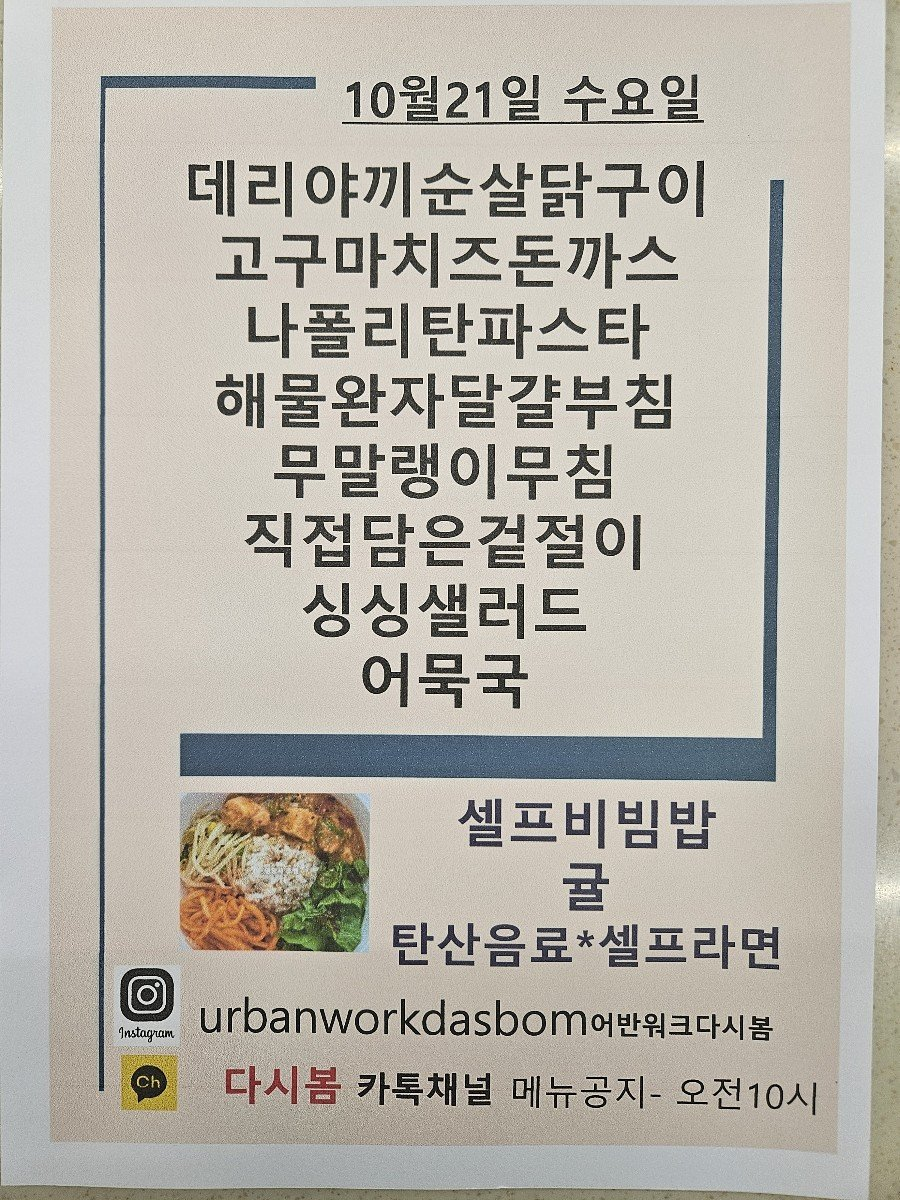
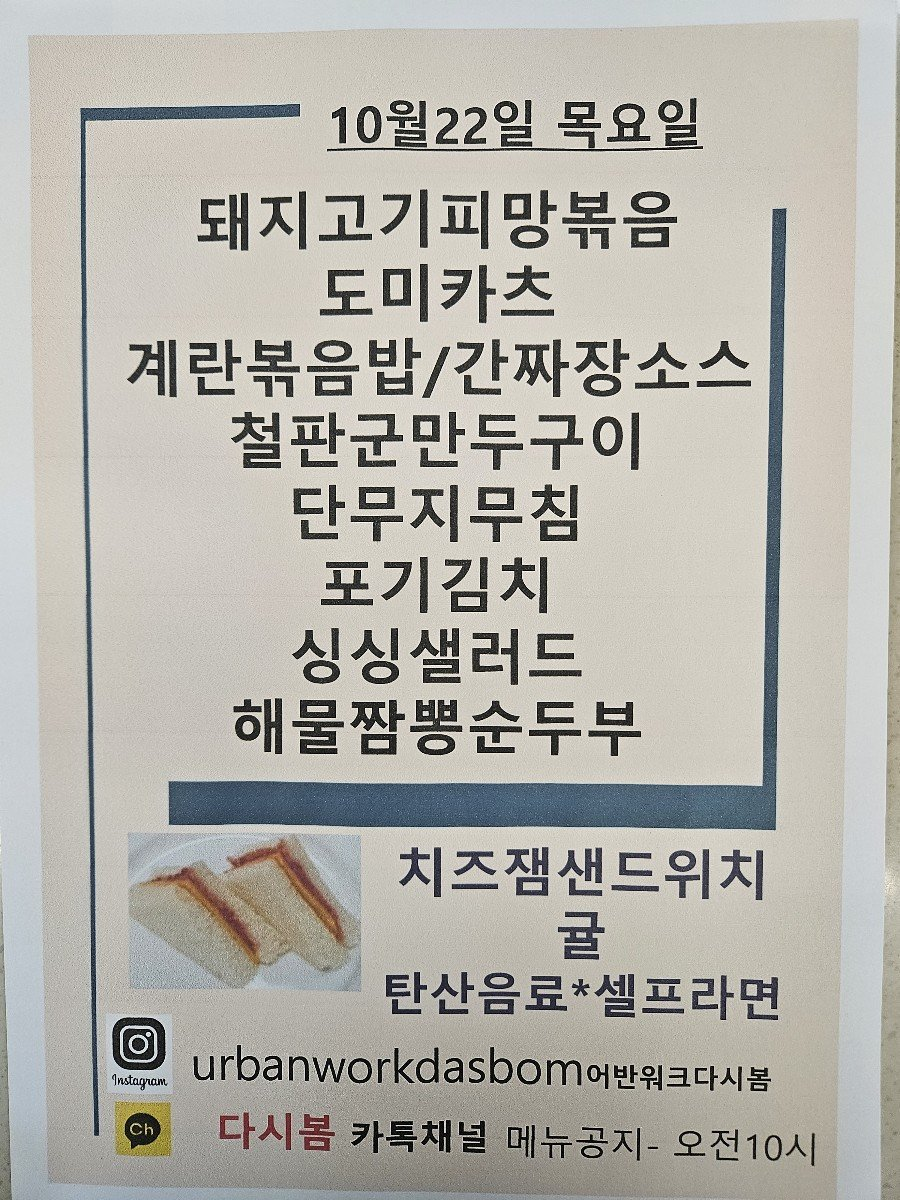
Update menu board assets

diff --git a/menu-today/index.html b/menu-today/index.html
@@ -209,7 +209,7 @@
 
     <section class="meta-bar">
       <div class="meta-card"><div class="meta-label">기준 날짜</div><div class="meta-value">2026년 10월 22일 목요일</div></div>
-      <div class="meta-card"><div class="meta-label">최종 가져온 시간</div><div class="meta-value">2026-10-22 09:48:23</div></div>
+      <div class="meta-card"><div class="meta-label">최종 가져온 시간</div><div class="meta-value">2026-10-22 10:03:17</div></div>
       <div class="meta-card"><div class="meta-label">확인 완료</div><div class="meta-value">9개 식당</div></div>
       <div class="meta-card"><div class="meta-label">준비중</div><div class="meta-value">3개 채널</div></div>
     </section>
@@ -235,7 +235,7 @@
             <div class="sub">가산 어반워크</div>
           </div>
         </div>
-        <div class="menu-inline-image"><img src="./images/dasibom.png" alt="다시 봄 식단 이미지"></div><ul><li>데리야끼순살닭구이</li><li>나폴리탄파스타 [</li><li>무말랭이무침</li><li>어묵국</li><li>데리야끼</li><li>구이</li><li>고구마치즈돈까스</li></ul>
+        <div class="menu-inline-image"><img src="./images/dasibom.png" alt="다시 봄 식단 이미지"></div><ul><li>돼지고기피망볶음</li><li>도미카즈</li><li>계린볶음밥 / 간짜상소스</li><li>판군만두구이</li><li>포기김치</li><li>샐러드</li><li>… c\ 치즈잼샌드위치</li></ul>
       </article>
 
       <article class="restaurant-card">

diff --git a/guro-menu/index.html b/guro-menu/index.html
@@ -32,7 +32,7 @@
   </header>
   <section class="meta">
     <div><small>기준 날짜</small><strong>2026년 10월 22일 목요일</strong></div>
-    <div><small>최종 갱신</small><strong>2026-10-22 09:48:36</strong></div>
+    <div><small>최종 갱신</small><strong>2026-10-22 10:03:28</strong></div>
     <div><small>등록 식당</small><strong>5개</strong></div>
   </section>
   <div class="notice">공개 카카오 채널의 메뉴 이미지를 자동 수집하고 OCR로 정리합니다. 텍스트에 오타가 있을 수 있으니 식단 이미지를 함께 확인해 주세요.</div>
